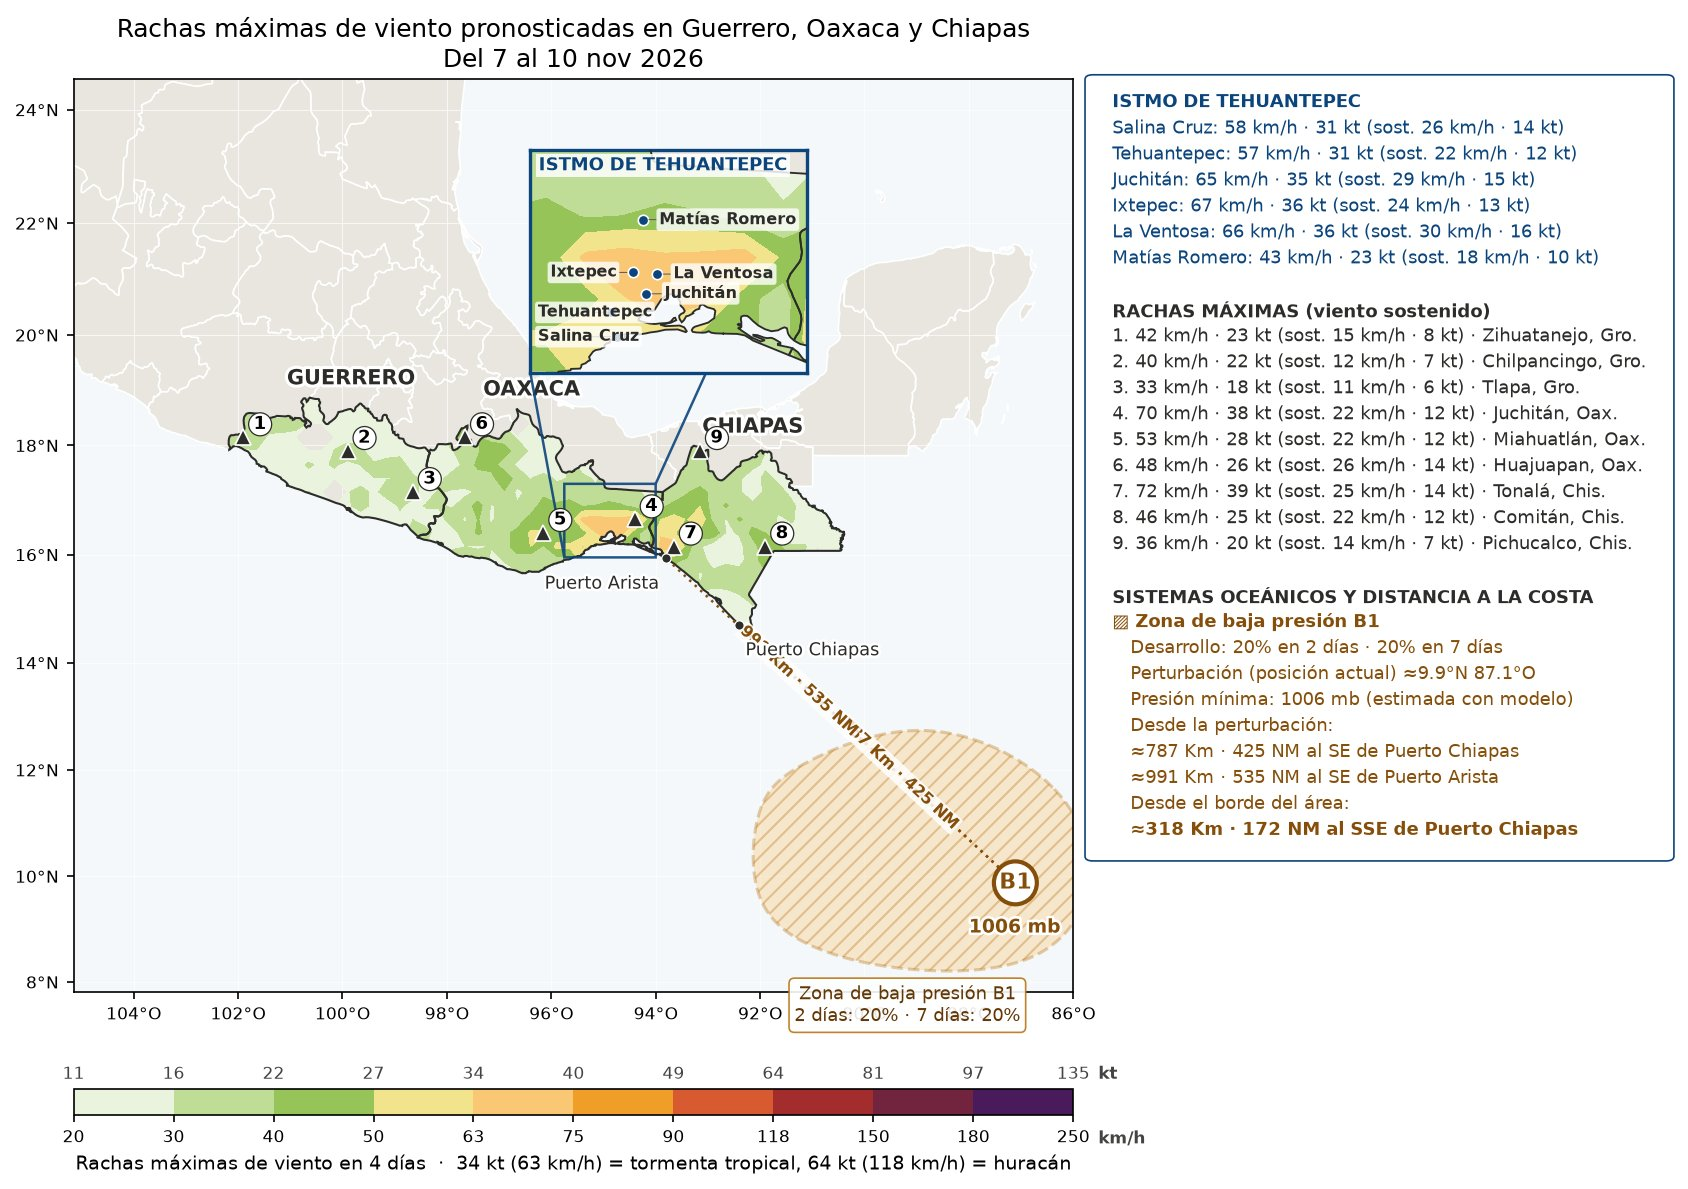
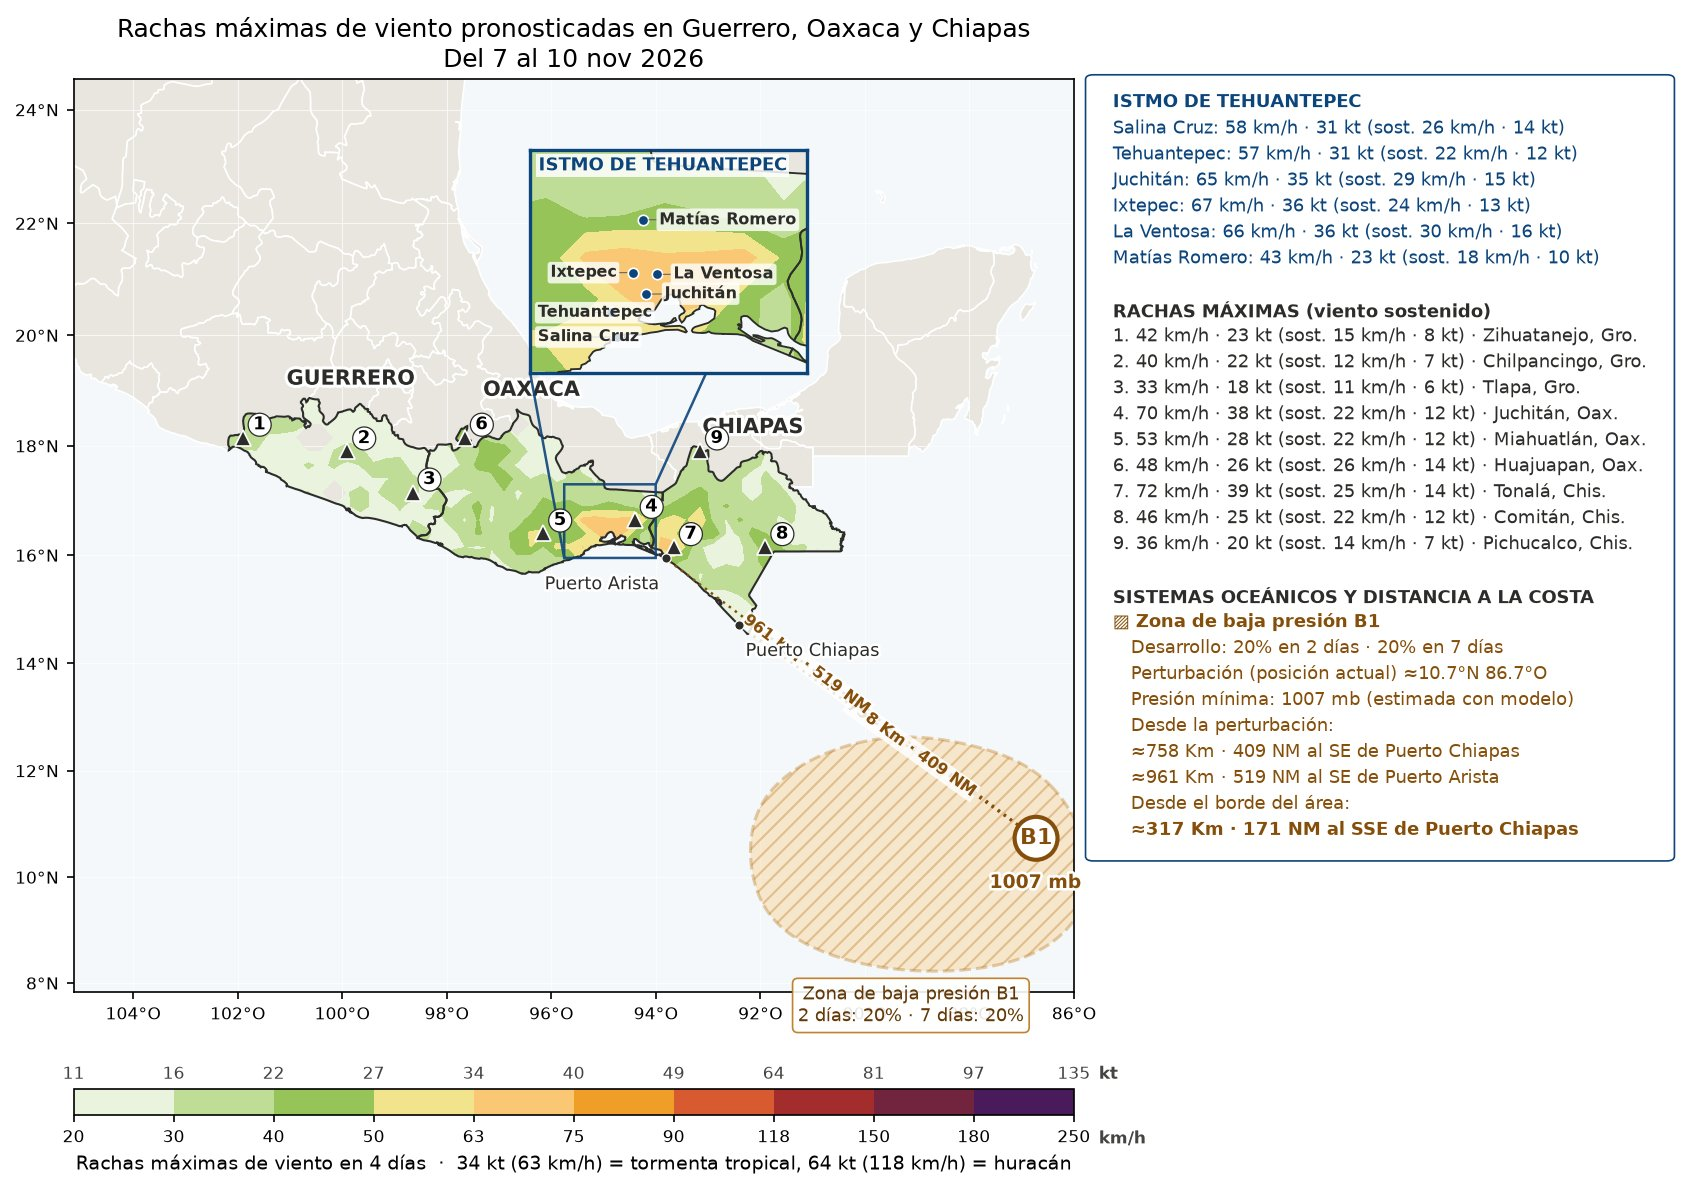
Monitor 07/11 18:27 (mapas nuevos)

diff --git a/index.html b/index.html
@@ -62,7 +62,7 @@ pre{overflow-x:auto;font-size:.75rem;background:var(--bg);padding:10px;border-ra
 <section class="t" id="sec_log"><details><summary>Registro (últimas líneas)</summary><pre id="log"></pre></details></section>
 </main>
 <div id="zoom"><img alt=""></div>
-<script id="datos" type="application/json">{"generado": "2026-11-07T18:07:04.608292", "ultima_revision": "2026-11-07T18:07:04.559889", "decision": "sin cambios", "ultima_imagen": "2026-11-07T14:50:17.694586", "motivo_imagen": "cambios acumulados en 3 h: modelo", "pendientes": [], "intervalo_h": 3, "resumen": {"ciclones": {}, "zonas": [{"lat": 9.9, "lon": -87.1, "n": "1", "p2": 20, "p7": 20}]}, "historial": [{"fecha": "2026-11-05T21:00:07.785836", "motivo": "cambios acumulados en 3 h: modelo"}, {"fecha": "2026-11-06T00:07:18.516460", "motivo": "cambios acumulados en 3 h: zonas"}, {"fecha": "2026-11-06T03:20:16.865587", "motivo": "cambios acumulados en 3 h: modelo"}, {"fecha": "2026-11-06T06:27:18.371045", "motivo": "cambios acumulados en 3 h: zonas"}, {"fecha": "2026-11-06T09:40:10.112780", "motivo": "cambios acumulados en 3 h: modelo"}, {"fecha": "2026-11-06T11:37:17.169772", "motivo": "CAMBIO SIGNIFICATIVO: zona de baja presión: 40/40% → 30/30% (2/7 días)"}, {"fecha": "2026-11-06T14:50:22.502540", "motivo": "cambios acumulados en 3 h: modelo"}, {"fecha": "2026-11-06T18:07:20.063705", "motivo": "cambios acumulados en 3 h: zonas"}, {"fecha": "2026-11-06T21:20:13.746060", "motivo": "cambios acumulados en 3 h: modelo"}, {"fecha": "2026-11-07T00:27:15.808029", "motivo": "cambios acumulados en 3 h: zonas"}, {"fecha": "2026-11-07T03:40:12.642258", "motivo": "cambios acumulados en 3 h: modelo"}, {"fecha": "2026-11-07T06:47:15.590117", "motivo": "cambios acumulados en 3 h: zonas"}, {"fecha": "2026-11-07T10:00:13.095070", "motivo": "cambios acumulados en 3 h: modelo"}, {"fecha": "2026-11-07T11:37:16.646771", "motivo": "CAMBIO SIGNIFICATIVO: zona de baja presión: 30/30% → 20/20% (2/7 días)"}, {"fecha": "2026-11-07T14:50:17.694586", "motivo": "cambios acumulados en 3 h: modelo"}], "imagenes": {"lluvia": {"src": "lluvia.jpg?v=202611071450", "fecha": "2026-11-07T14:50:11.292563"}, "viento": {"src": "viento.jpg?v=202611071450", "fecha": "2026-11-07T14:50:16.098212"}}, "log": [], "umbral_av": 50, "umbral_mal": 110}</script>
+<script id="datos" type="application/json">{"generado": "2026-11-07T18:27:20.338291", "ultima_revision": "2026-11-07T18:27:20.258510", "decision": "imágenes generadas", "ultima_imagen": "2026-11-07T18:27:20.258510", "motivo_imagen": "cambios acumulados en 3 h: zonas", "pendientes": [], "intervalo_h": 3, "resumen": {"ciclones": {}, "zonas": [{"lat": 10.7, "lon": -86.7, "n": "1", "p2": 20, "p7": 20}]}, "historial": [{"fecha": "2026-11-06T00:07:18.516460", "motivo": "cambios acumulados en 3 h: zonas"}, {"fecha": "2026-11-06T03:20:16.865587", "motivo": "cambios acumulados en 3 h: modelo"}, {"fecha": "2026-11-06T06:27:18.371045", "motivo": "cambios acumulados en 3 h: zonas"}, {"fecha": "2026-11-06T09:40:10.112780", "motivo": "cambios acumulados en 3 h: modelo"}, {"fecha": "2026-11-06T11:37:17.169772", "motivo": "CAMBIO SIGNIFICATIVO: zona de baja presión: 40/40% → 30/30% (2/7 días)"}, {"fecha": "2026-11-06T14:50:22.502540", "motivo": "cambios acumulados en 3 h: modelo"}, {"fecha": "2026-11-06T18:07:20.063705", "motivo": "cambios acumulados en 3 h: zonas"}, {"fecha": "2026-11-06T21:20:13.746060", "motivo": "cambios acumulados en 3 h: modelo"}, {"fecha": "2026-11-07T00:27:15.808029", "motivo": "cambios acumulados en 3 h: zonas"}, {"fecha": "2026-11-07T03:40:12.642258", "motivo": "cambios acumulados en 3 h: modelo"}, {"fecha": "2026-11-07T06:47:15.590117", "motivo": "cambios acumulados en 3 h: zonas"}, {"fecha": "2026-11-07T10:00:13.095070", "motivo": "cambios acumulados en 3 h: modelo"}, {"fecha": "2026-11-07T11:37:16.646771", "motivo": "CAMBIO SIGNIFICATIVO: zona de baja presión: 30/30% → 20/20% (2/7 días)"}, {"fecha": "2026-11-07T14:50:17.694586", "motivo": "cambios acumulados en 3 h: modelo"}, {"fecha": "2026-11-07T18:27:20.258510", "motivo": "cambios acumulados en 3 h: zonas"}], "imagenes": {"lluvia": {"src": "lluvia.jpg?v=202611071827", "fecha": "2026-11-07T18:27:13.073539"}, "viento": {"src": "viento.jpg?v=202611071827", "fecha": "2026-11-07T18:27:18.562780"}}, "log": [], "umbral_av": 50, "umbral_mal": 110}</script>
 <script>
 const D = JSON.parse(document.getElementById("datos").textContent);
 const $ = id => document.getElementById(id);
